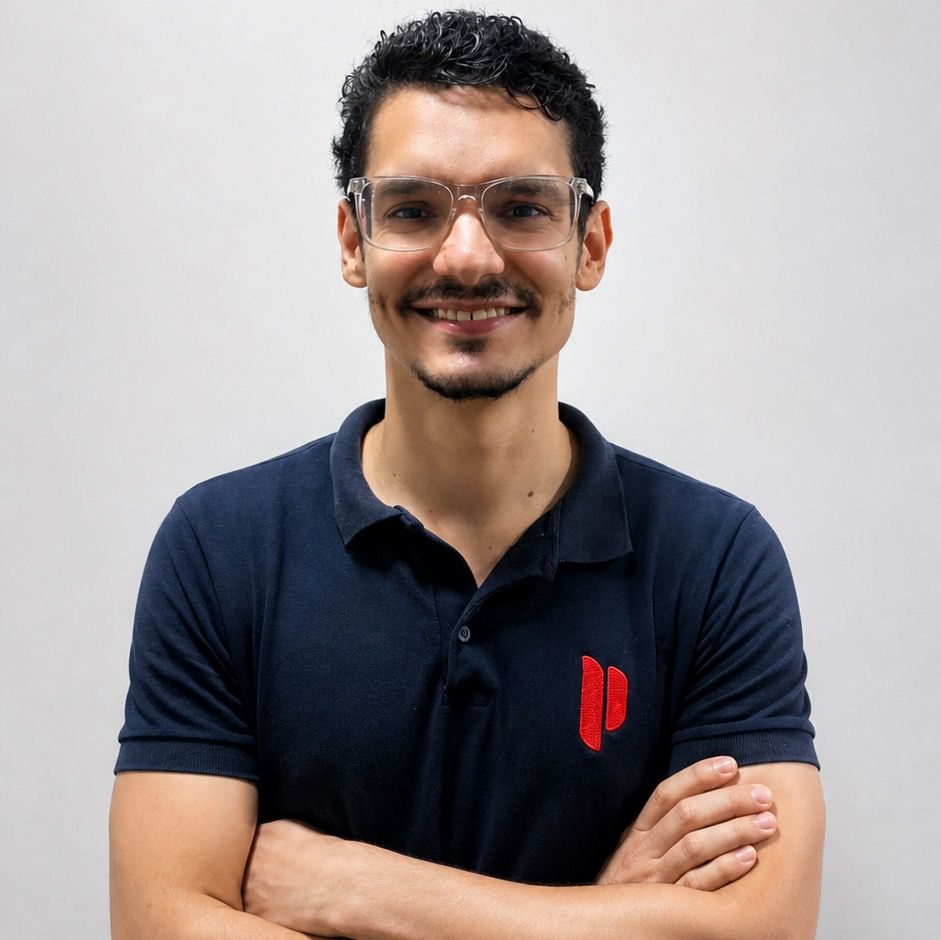
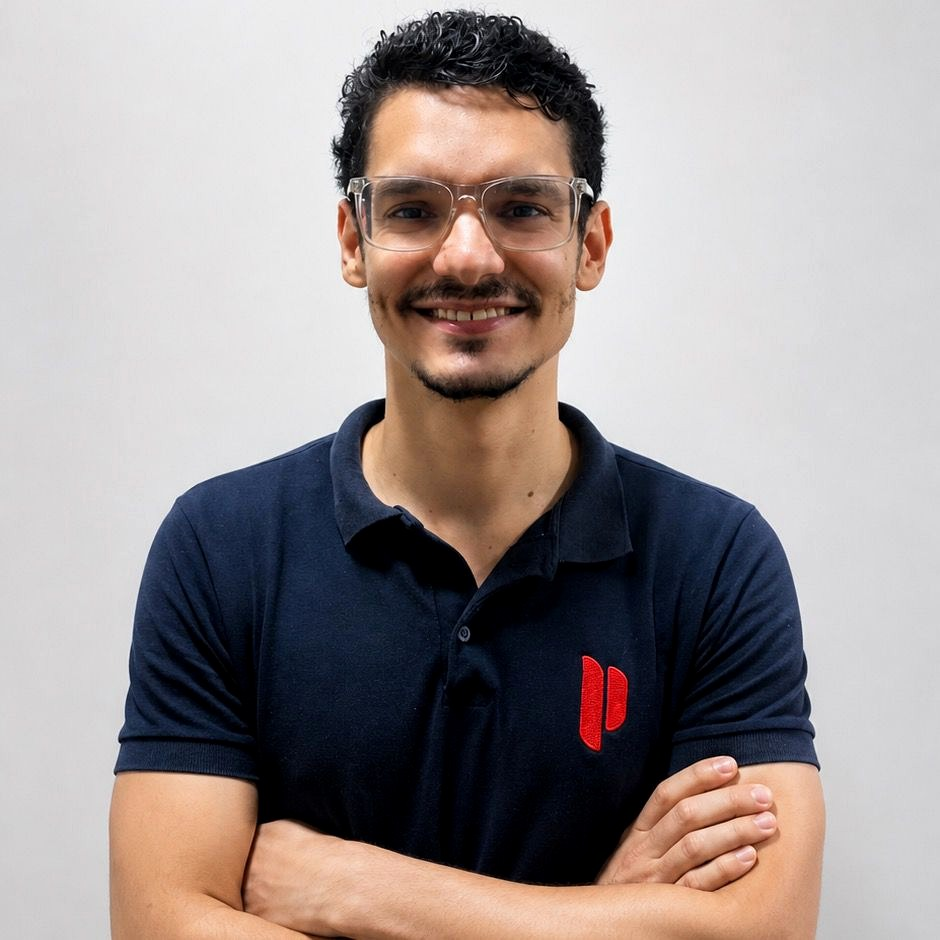
patch 2005261025

diff --git a/index.html b/index.html
@@ -3,20 +3,20 @@
 <head>
     <meta charset="utf-8" />
     <meta name="viewport" content="width=device-width, initial-scale=1" />
-    <meta name="description" content="Vitor Melo Viana — Engenheiro Civil. Orçamento, planejamento, controle de obra, BIM e analista de projetos. Fortaleza/CE." />
+    <meta name="description" content="Vitor Melo Viana — Engenheiro Civil e Desenvolvedor Full Stack. Orçamento, planejamento, controle de obra, BIM e analista de projetos. Fortaleza/CE." />
     <meta name="author" content="Vitor Melo Viana" />
     <meta name="robots" content="index, follow" />
     <link rel="canonical" href="https://vitormelov.github.io/" />
 
     <meta property="og:type" content="profile" />
-    <meta property="og:title" content="Vitor Melo Viana — Engenheiro Civil" />
-    <meta property="og:description" content="Engenheiro civil especializado em orçamento, planejamento, controle de obra, BIM e projetos." />
+    <meta property="og:title" content="Vitor Melo Viana — Engenheiro Civil · Desenvolvedor Full Stack" />
+    <meta property="og:description" content="Engenheiro civil e desenvolvedor Full Stack. Orçamento, planejamento, controle de obra, BIM e projetos." />
     <meta property="og:url" content="https://vitormelov.github.io/" />
     <meta property="og:locale" content="pt_BR" />
     <meta property="profile:first_name" content="Vitor" />
     <meta property="profile:last_name" content="Melo Viana" />
 
-    <title>Vitor Melo Viana — Engenheiro Civil</title>
+    <title>Vitor Melo Viana — Engenheiro Civil · Desenvolvedor Full Stack</title>
     <link rel="icon" type="image/x-icon" href="assets/img/favicon.ico" />
 
     <link rel="preconnect" href="https://fonts.googleapis.com" />
@@ -29,7 +29,7 @@
       "@context": "https://schema.org",
       "@type": "Person",
       "name": "Vitor Melo Viana",
-      "jobTitle": "Engenheiro Civil",
+      "jobTitle": "Engenheiro Civil · Desenvolvedor Full Stack",
       "worksFor": {
         "@type": "Organization",
         "name": "Construtora Preferencial"
@@ -50,6 +50,7 @@
       ],
       "knowsAbout": [
         "Engenharia Civil",
+        "Desenvolvimento Full Stack",
         "BIM",
         "Orçamento de obras",
         "Planejamento e controle de obra",
@@ -89,23 +90,28 @@
 
     <main id="conteudo" class="page">
         <header class="hero" id="sobre">
-            <img
-                class="hero__photo"
-                src="assets/img/profile.jpeg"
-                alt="Foto de Vitor Melo Viana"
-                width="120"
-                height="120"
-                loading="eager"
-            />
+            <picture>
+                <source srcset="assets/img/profile.webp" type="image/webp" />
+                <img
+                    class="hero__photo"
+                    src="assets/img/profile.jpeg"
+                    srcset="assets/img/profile.jpeg 1x, assets/img/profile@2x.jpeg 2x"
+                    alt="Foto de Vitor Melo Viana"
+                    width="176"
+                    height="176"
+                    loading="eager"
+                    decoding="async"
+                />
+            </picture>
             <div class="hero__content">
-                <p class="hero__eyebrow">Engenheiro Civil</p>
+                <p class="hero__eyebrow">Engenheiro civil · Desenvolvedor Full Stack</p>
                 <h1>Vitor Melo Viana</h1>
                 <p class="hero__role">
                     Engenheiro civil na Construtora Preferencial · Desenvolvimento de orçamentos · Analista de projetos · Controle e planejamento de obra
                 </p>
                 <ul class="hero__meta">
                     <li class="meta-chip">Fortaleza, CE</li>
-                    <li class="meta-chip">30 anos</li>
+                    <li class="meta-chip">32 anos</li>
                     <li class="meta-chip">
                         <a href="mailto:vitormelov@gmail.com">vitormelov@gmail.com</a>
                     </li>
@@ -339,11 +345,24 @@
                 <li>Uso do Power BI aliado ao BIM – Building Information Modeling – para facilitar o gerenciamento de dados de quantitativos, visando aperfeiçoar o planejamento e controle de obra.</li>
                 <li>As vantagens da utilização dos softwares BIM (Building Information Modeling) sobre o CAD (Computer Aided Design).</li>
             </ul>
+
+            <header class="section__header section__header--sub">
+                <p class="section__label">Projetos</p>
+                <h3 id="titulo-sites" class="section__title-sub">Sites</h3>
+            </header>
+            <ul class="sites-list">
+                <li class="sites-list__item">
+                    <a href="https://obratransparente.eng.br" rel="noopener noreferrer" target="_blank">
+                        <span class="sites-list__url">obratransparente.eng.br</span>
+                        <span class="sites-list__desc">Site de planejamento e controle de obra</span>
+                    </a>
+                </li>
+            </ul>
         </section>
     </main>
 
     <footer class="site-footer">
-        <p>Vitor Melo Viana · Engenheiro Civil · Fortaleza, CE</p>
+        <p>Vitor Melo Viana · Engenheiro civil · Desenvolvedor Full Stack · Fortaleza, CE</p>
     </footer>
 
     <script src="js/scripts.js"></script>

diff --git a/css/styles.css b/css/styles.css
@@ -205,13 +205,20 @@ a:focus-visible {
   }
 }
 
+.hero picture {
+  display: block;
+  flex-shrink: 0;
+}
+
 .hero__photo {
-  width: 7.5rem;
-  height: 7.5rem;
+  width: 11rem;
+  height: 11rem;
   border-radius: 50%;
   object-fit: cover;
+  object-position: center 18%;
   border: 3px solid var(--surface);
   box-shadow: var(--shadow-md);
+  image-rendering: auto;
 }
 
 .hero__eyebrow {
@@ -549,6 +556,62 @@ a:focus-visible {
   margin-right: 0.5rem;
   color: var(--accent-light);
   font-weight: 700;
+}
+
+/* Sub-section (Sites under Artigos) */
+.section__header--sub {
+  margin-top: 2.5rem;
+  margin-bottom: 1.25rem;
+}
+
+.section__title-sub {
+  margin: 0;
+  font-size: 1.25rem;
+  font-weight: 700;
+  letter-spacing: -0.02em;
+  color: var(--text);
+}
+
+.sites-list {
+  list-style: none;
+  margin: 0;
+  padding: 0;
+}
+
+.sites-list__item {
+  background: var(--surface);
+  border: 1px solid var(--border);
+  border-radius: var(--radius);
+  transition: border-color var(--transition), box-shadow var(--transition);
+}
+
+.sites-list__item:hover {
+  border-color: var(--accent-light);
+  box-shadow: var(--shadow-md);
+}
+
+.sites-list__item a {
+  display: block;
+  padding: 1.25rem 1.5rem;
+  color: inherit;
+}
+
+.sites-list__item a:hover {
+  color: inherit;
+}
+
+.sites-list__url {
+  display: block;
+  font-size: 1rem;
+  font-weight: 700;
+  color: var(--accent);
+  margin-bottom: 0.35rem;
+}
+
+.sites-list__desc {
+  display: block;
+  font-size: 0.9375rem;
+  color: var(--text-muted);
 }
 
 /* Footer */
